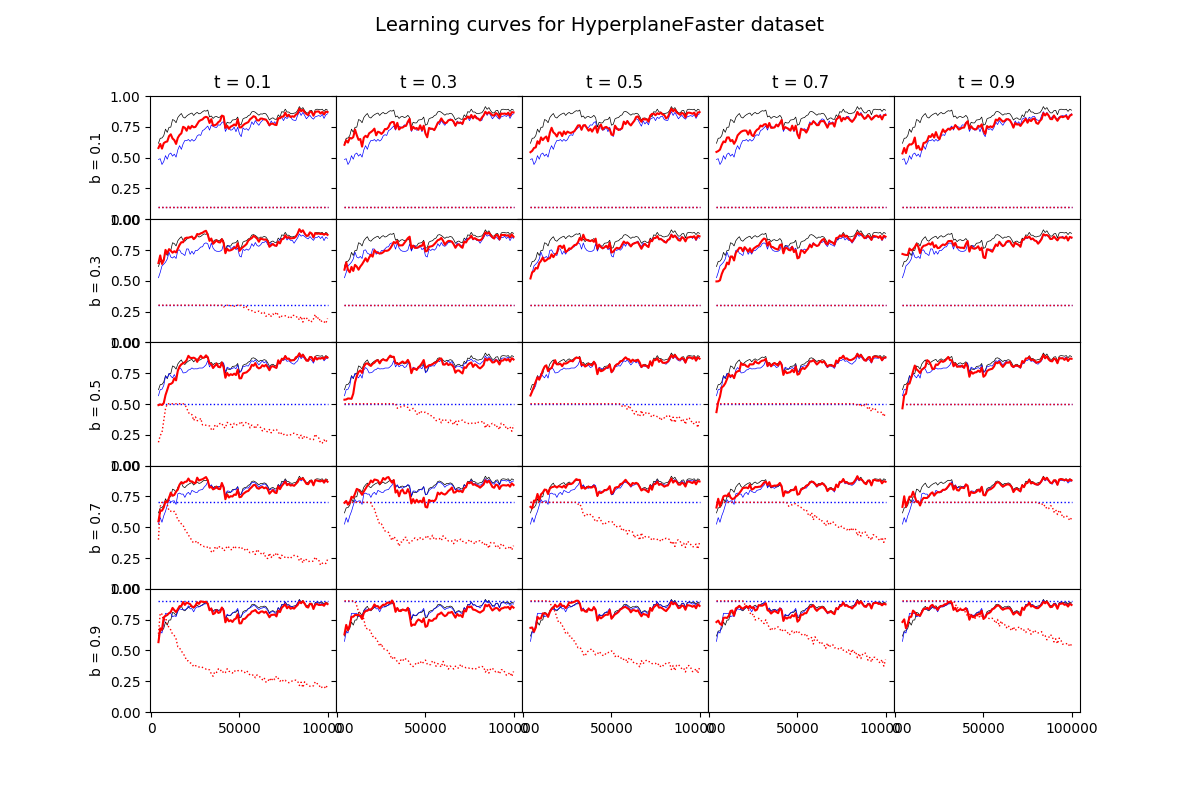
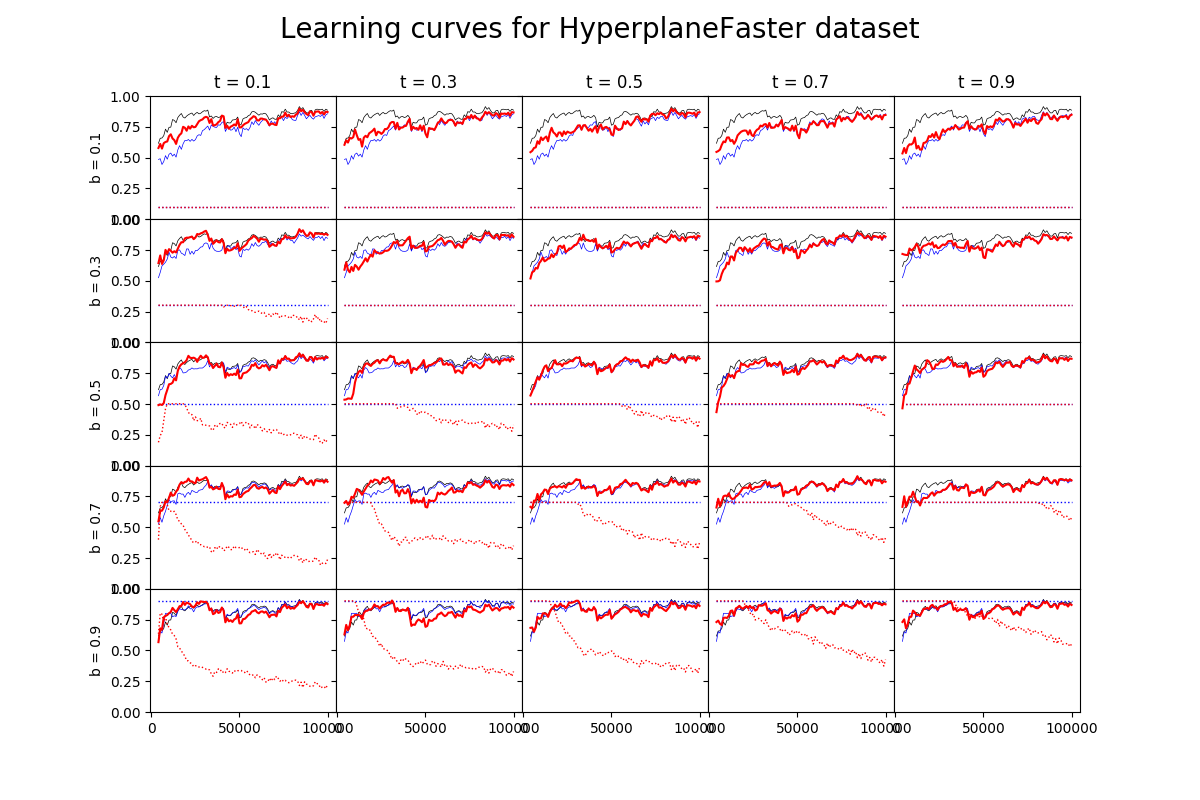
New figures.

Changed region(s): [[0.2467, 0.0, 0.7708, 0.0625]]

diff --git a/plotter.py b/plotter.py
@@ -25,7 +25,7 @@ for dbname in dbnames:
     fig, ax = plt.subplots(5,5, figsize=(12,8), sharex=True,
                            sharey=True)
     fig.subplots_adjust(hspace=0, wspace=0)
-    fig.suptitle("Learning curves for %s dataset" % dbname, fontsize=14)
+    fig.suptitle("Learning curves for %s dataset" % dbname, fontsize=20)
     for i, b in enumerate(budgets):
         ax[i,0].set_ylabel("b = %.1f" % b)
         budget = pd.read_csv("results/%s_%s_bc_b%.2f.csv" % (
